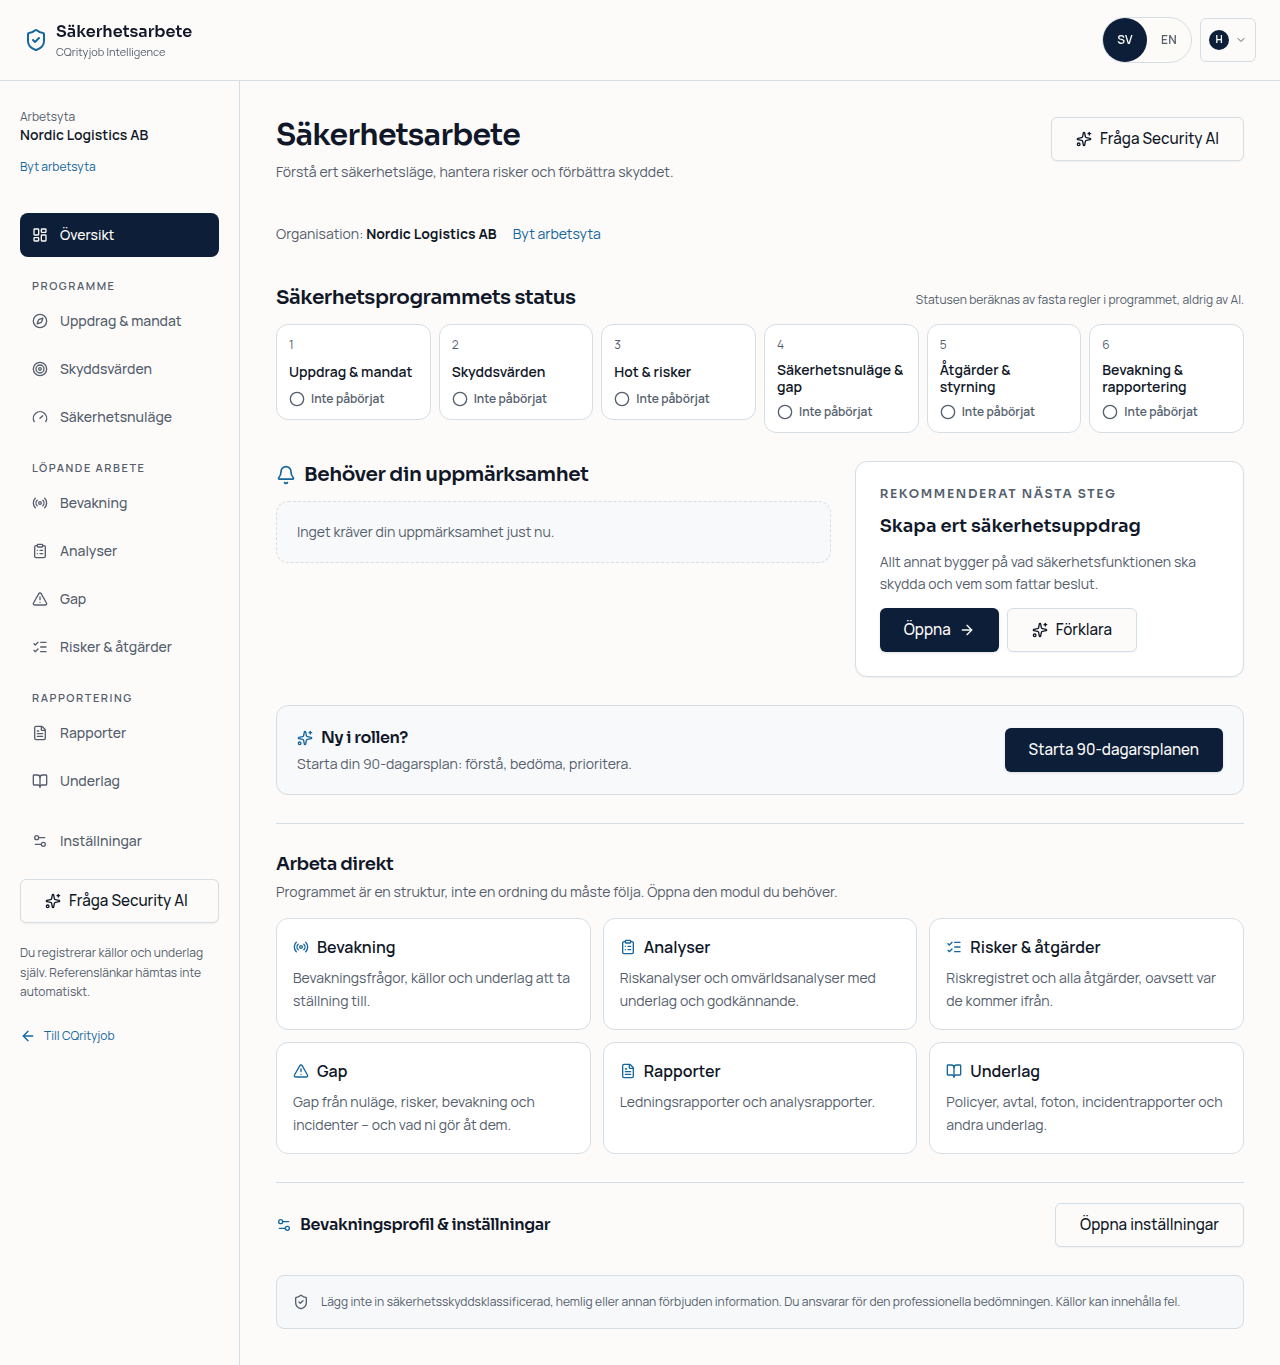
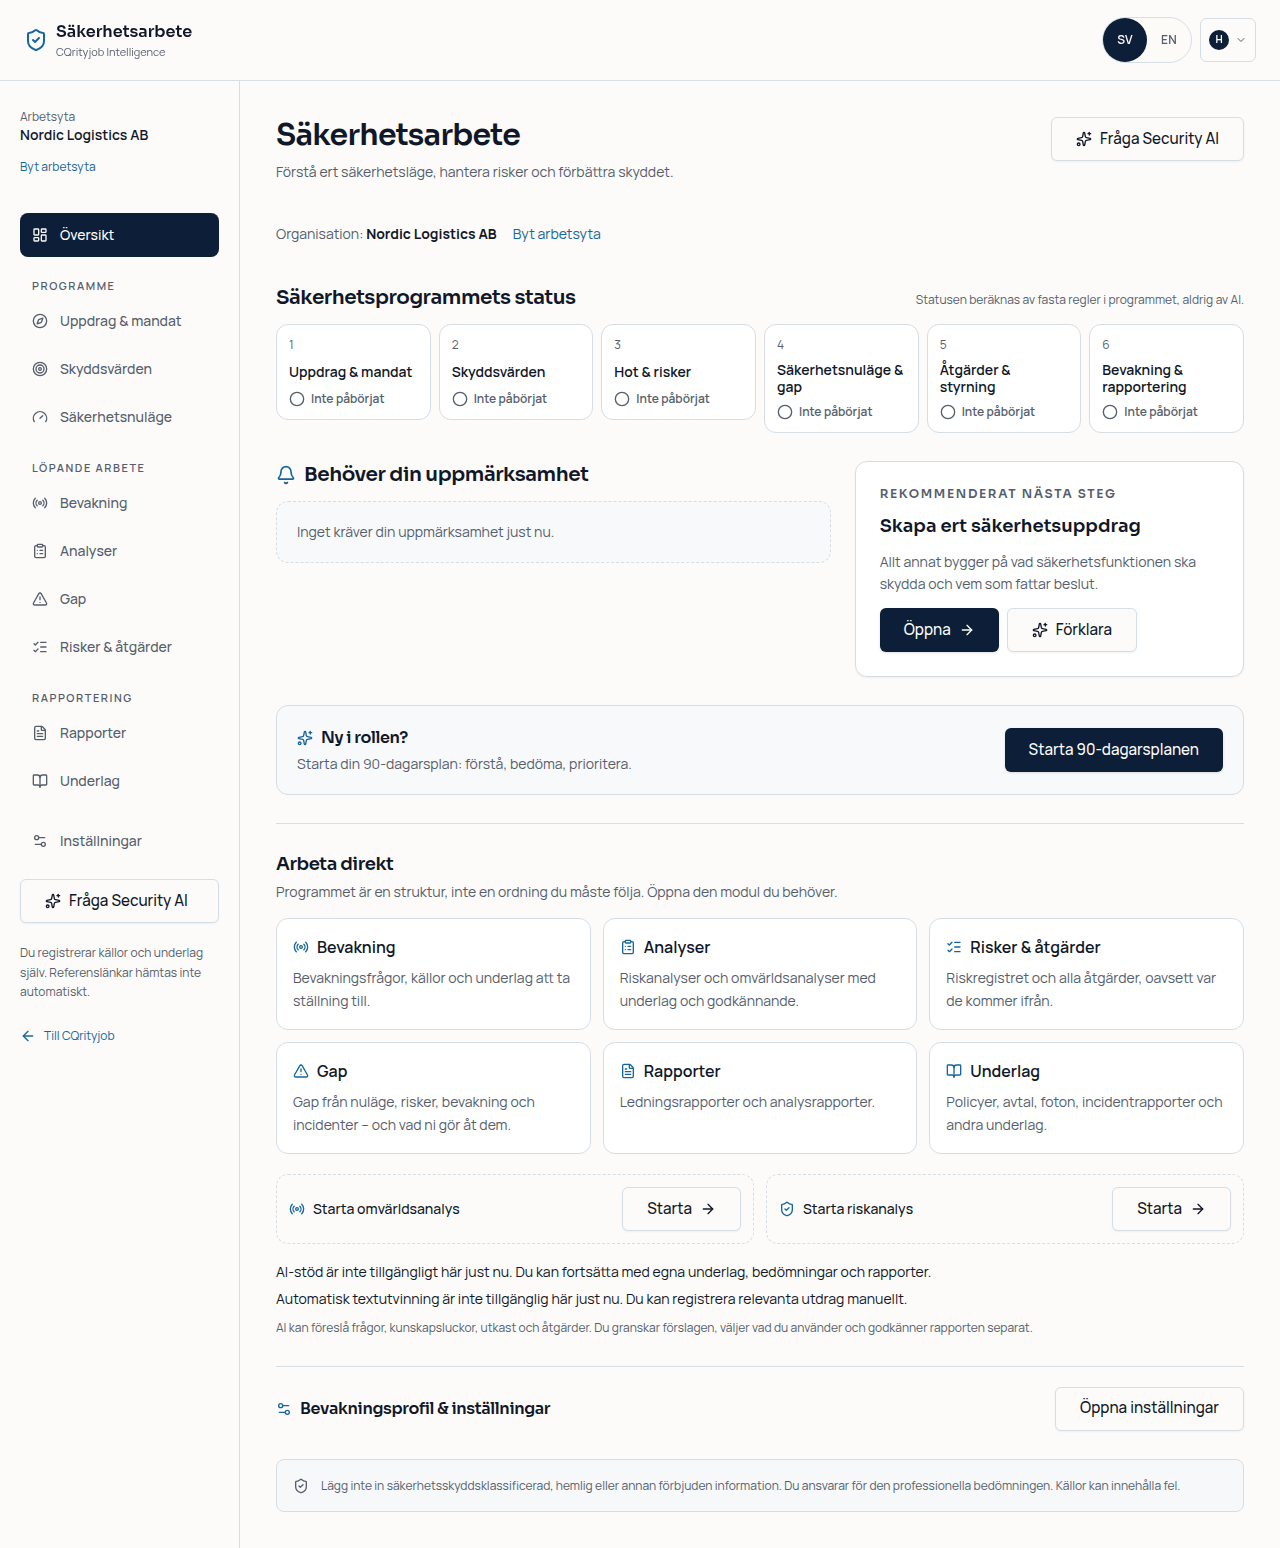
Security Work overview: keep the analysis entry points and assistance status
The existing browser suites start analyses from the overview and read the
assistance status there; both stay on the command center.

Claude-Session: https://claude.ai/code/session_01Rdg2KWsoH7hmNZsLnkuBSL

diff --git a/src/components/security-work/Overview.tsx b/src/components/security-work/Overview.tsx
@@ -8,6 +8,7 @@ import {
   ListChecks,
   Radio,
   Settings2,
+  ShieldCheck,
   Sparkles,
   TriangleAlert,
 } from "lucide-react";
@@ -20,6 +21,7 @@ import {
   recommendedNextAction,
 } from "@/lib/security-work/programme/rules";
 import type { ProgrammeAreaId } from "@/lib/security-work/programme/types";
+import { AssistanceStatus } from "./AssistanceStatus";
 import { useSecurityWorkspace } from "./context";
 import { usePortfolio, useWorkText, WorkStatus } from "./analysis-ui";
 import { AREA_ROUTES, AreaStatus, useProgramme } from "./programme-ui";
@@ -366,6 +368,48 @@ export function SecurityOverview() {
                 </li>
               ))}
             </ul>
+            {/* Direct analysis entry points and the assistance status, kept
+                from the previous overview: existing journeys start here. */}
+            <div className="mt-5 grid gap-3 md:grid-cols-2">
+              {(
+                [
+                  {
+                    method: "monitoring",
+                    icon: Radio,
+                    title: l("Starta omvärldsanalys", "Start monitoring analysis"),
+                  },
+                  {
+                    method: "rsa",
+                    icon: ShieldCheck,
+                    title: l("Starta riskanalys", "Start risk analysis"),
+                  },
+                ] as const
+              ).map((service) => (
+                <div
+                  key={service.method}
+                  className="flex flex-wrap items-center justify-between gap-3 rounded-xl border border-dashed border-border p-3"
+                  data-testid={`sw-service-${service.method}`}
+                >
+                  <span className="flex items-center gap-2 text-sm font-medium">
+                    <service.icon className="size-4 text-accent" aria-hidden="true" />
+                    {service.title}
+                  </span>
+                  <WorkButton asChild variant="outline" className="min-h-10">
+                    <Link
+                      to="/security-work/$workspaceId/analyses"
+                      params={params}
+                      search={canEdit ? { new: true, method: service.method } : { new: false }}
+                    >
+                      {canEdit ? l("Starta", "Start") : l("Visa analyser", "View analyses")}
+                      <ArrowRight aria-hidden="true" />
+                    </Link>
+                  </WorkButton>
+                </div>
+              ))}
+            </div>
+            <div className="mt-4">
+              <AssistanceStatus />
+            </div>
           </Group>
         </>
       )}
